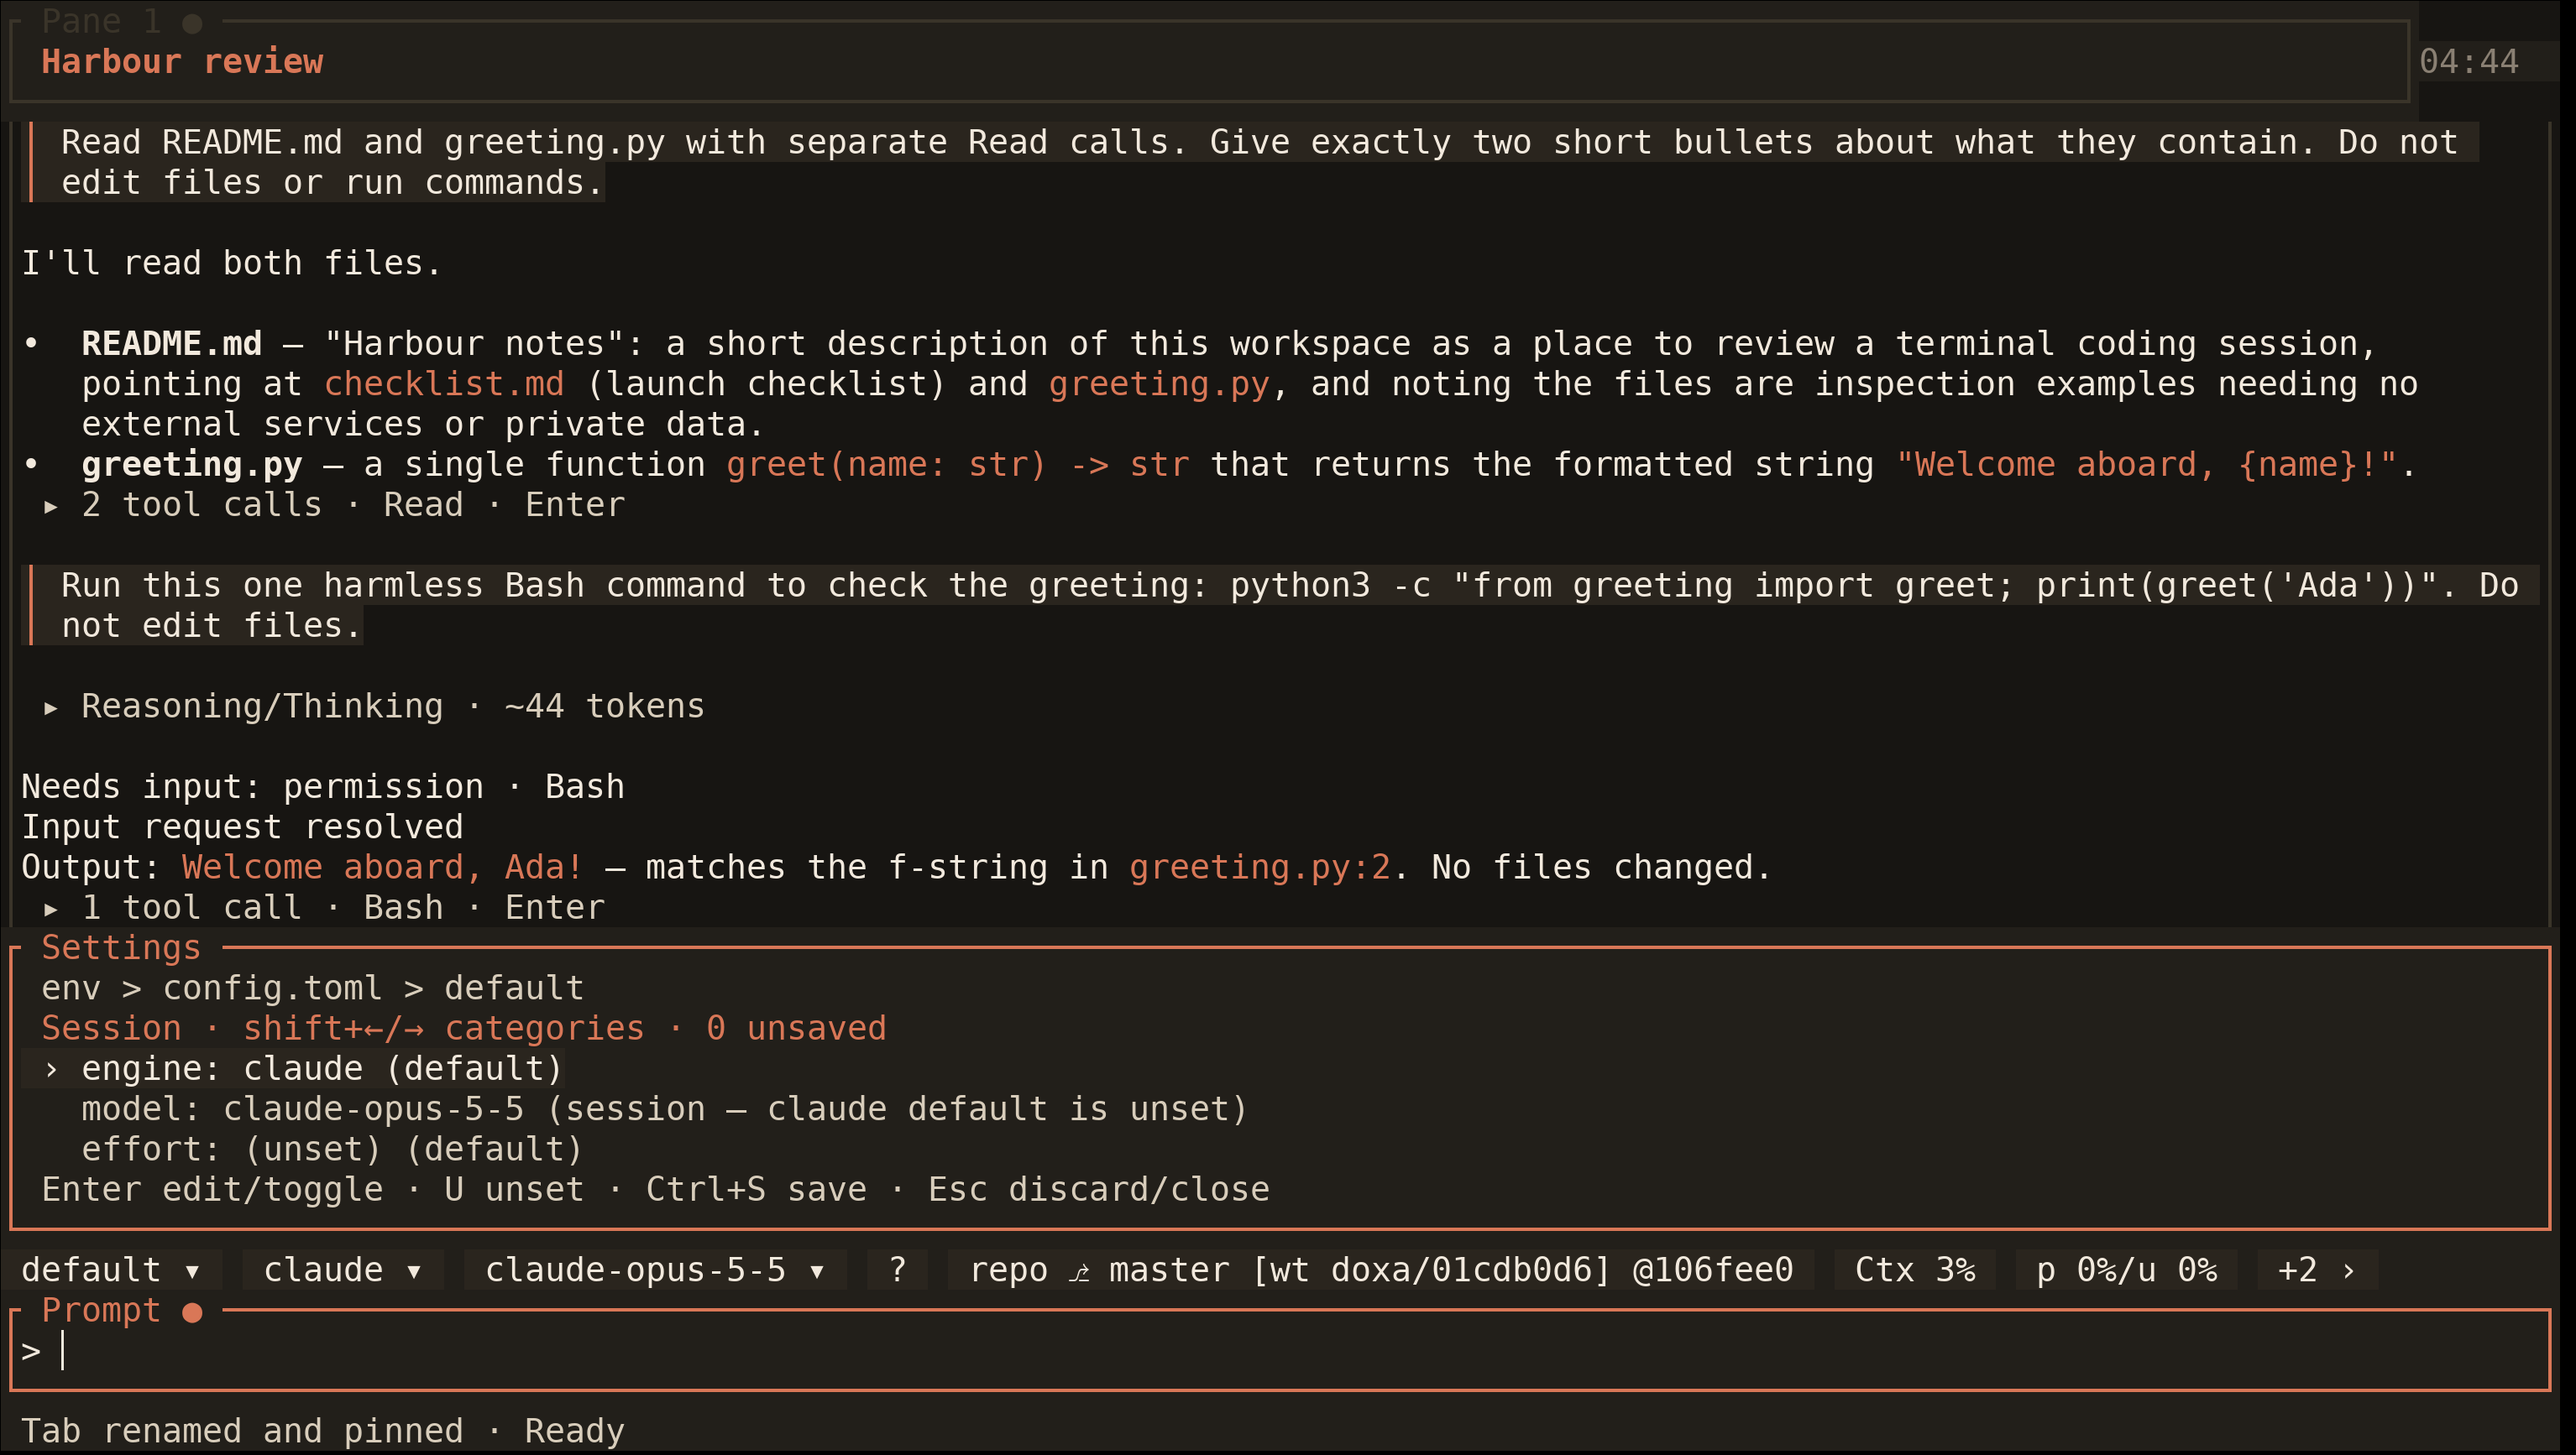
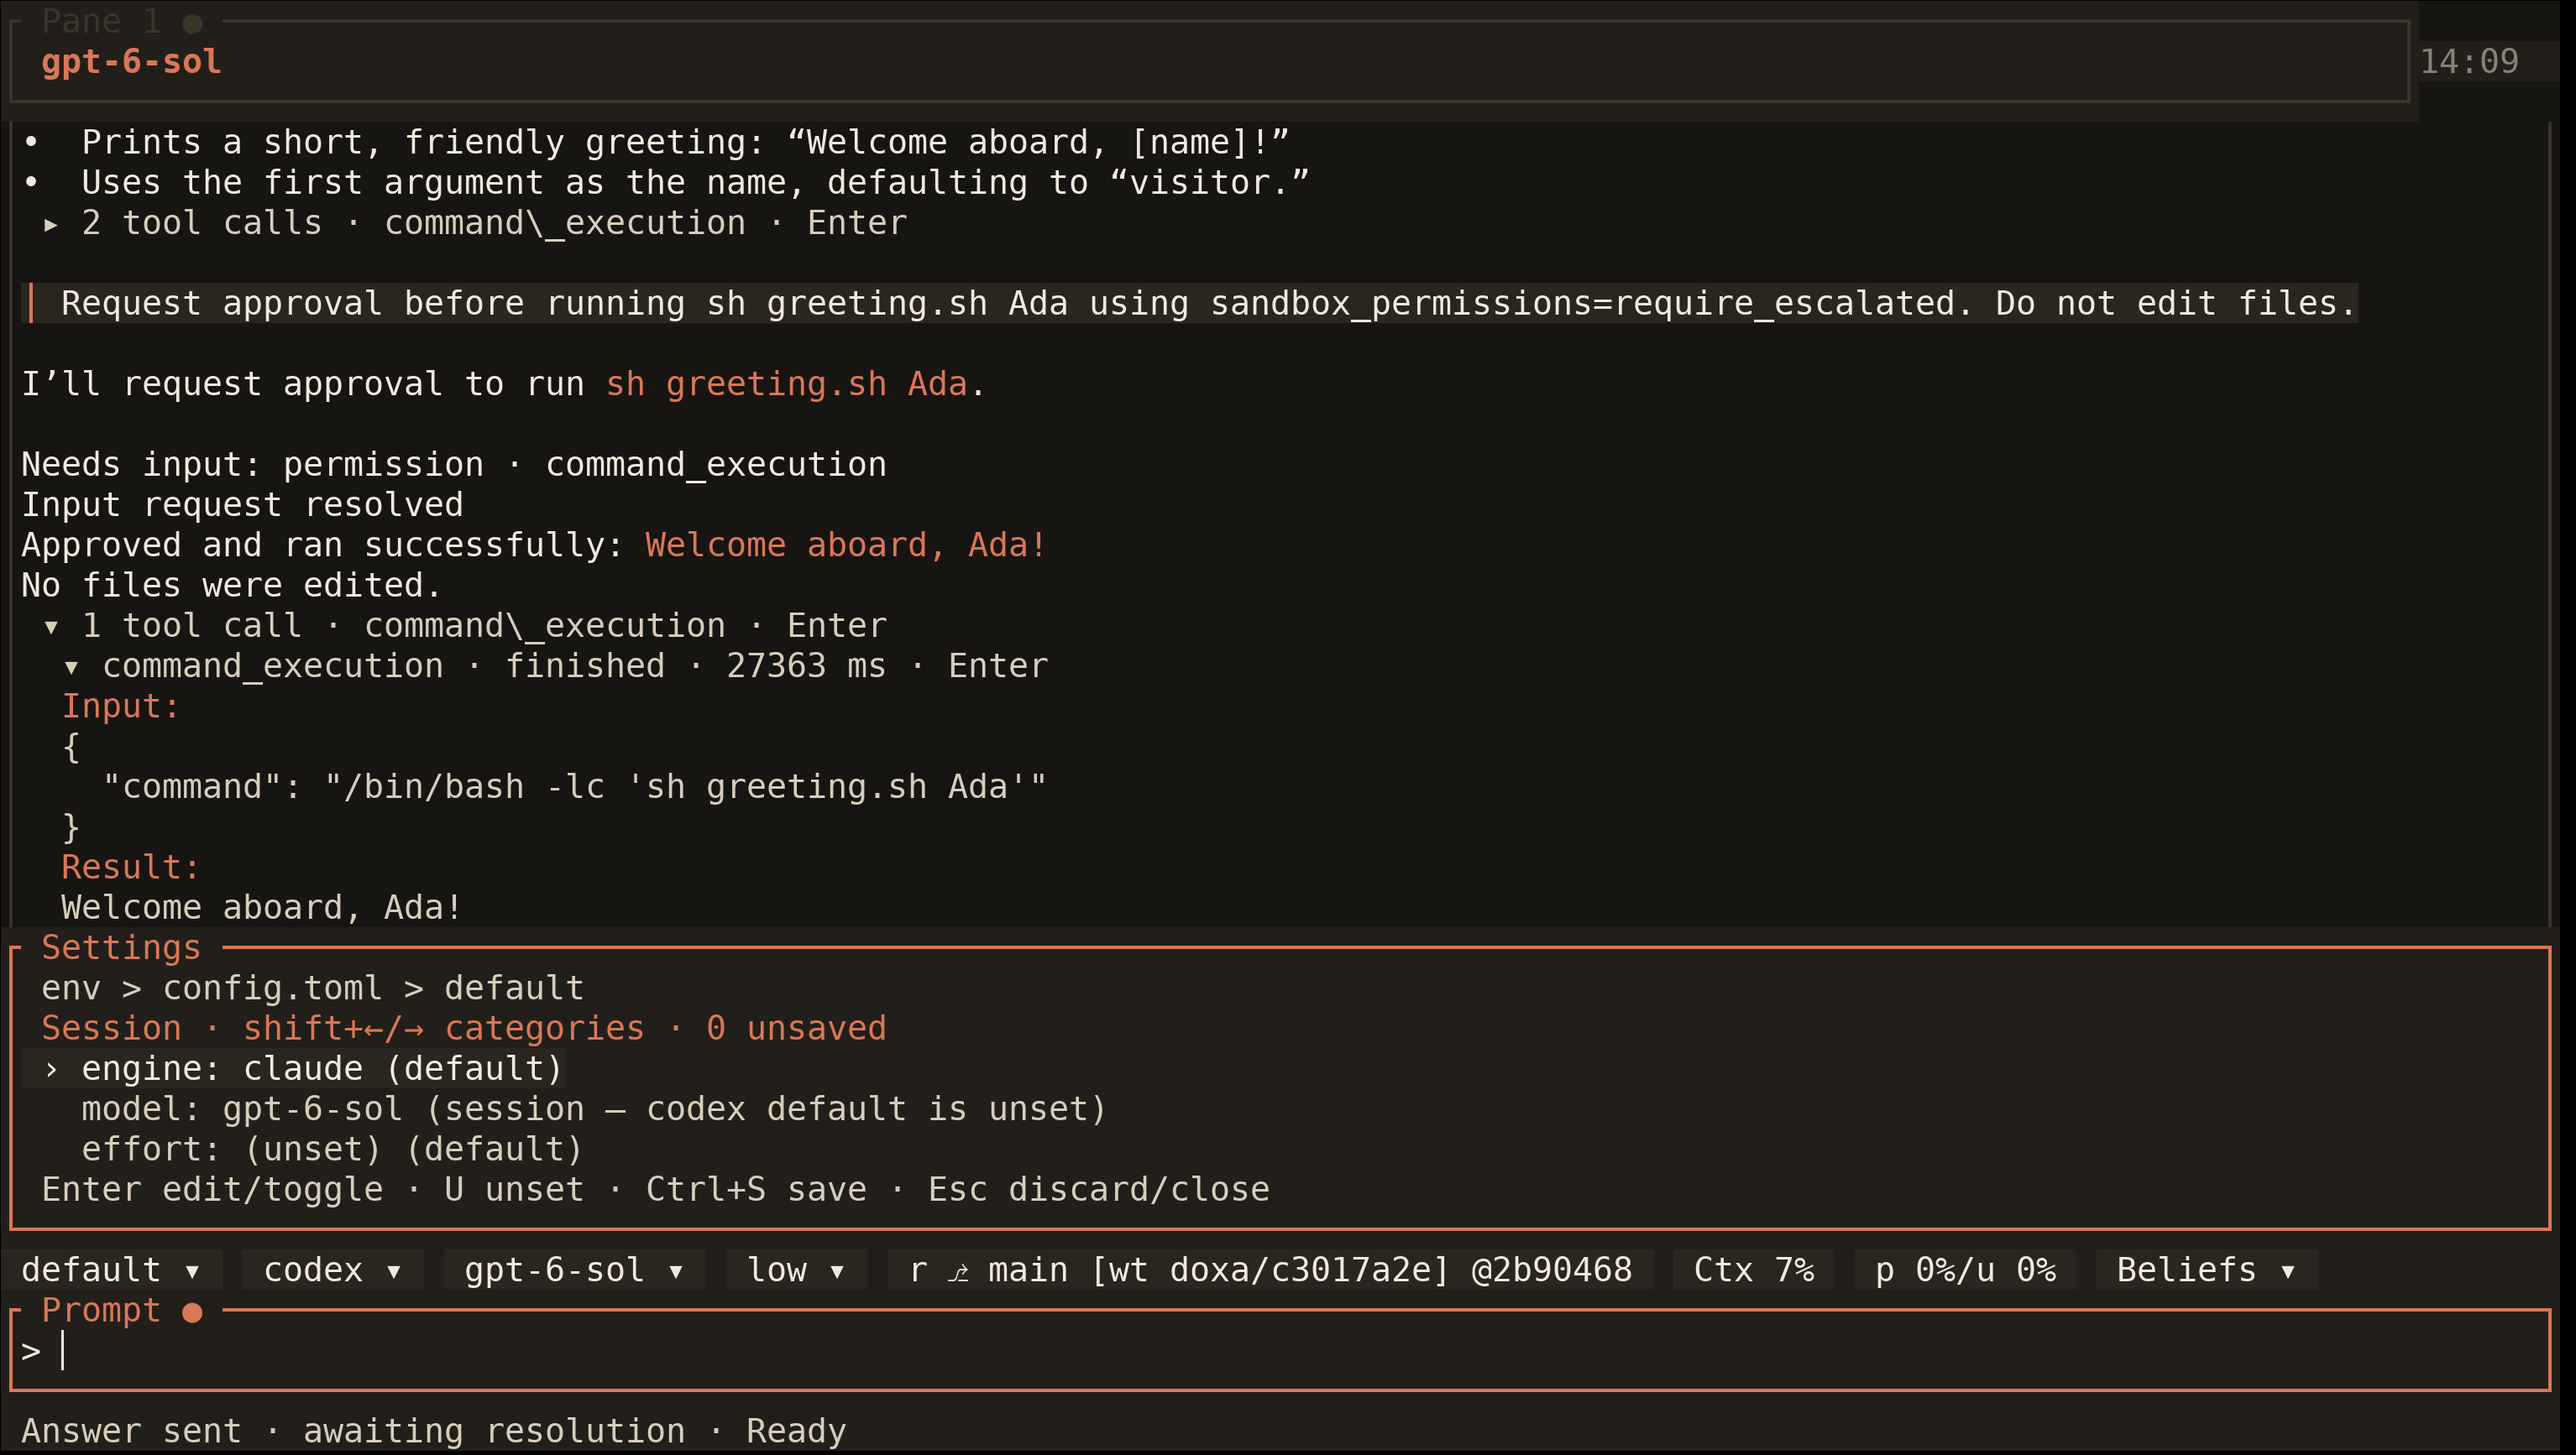
docs(gallery): record native alpha.37 from an actual Codex session

diff --git a/docs/rust-gallery.md b/docs/rust-gallery.md
@@ -3,7 +3,7 @@
 The README gallery records the running Rust app in a real GTK3/VTE terminal on
 an isolated Xvfb display. FFmpeg captures the terminal framebuffer directly.
 These images use the production frontend and native daemon with an authenticated
-Claude session; they do not use `TestBackend`, `--demo`, a fixture engine, or
+Codex session; they do not use `TestBackend`, `--demo`, a fixture engine, or
 injected daemon events. The PNGs are unedited.
 
 ## Capture provenance
@@ -11,26 +11,29 @@ injected daemon events. The PNGs are unedited.
 | Item | Recorded value |
 | --- | --- |
 | Date | 2026-09-28 |
-| Release | `2.0.0-alpha.36` |
-| Frontend and daemon source | `85b011e` |
-| Build profile | Production binaries, Cargo debug profile |
-| Provider | Authenticated Claude CLI `2.1.283`, through the Claude SDK sidecar |
-| Model | CLI default for the two provider turns; `claude-opus-5-5` explicitly selected afterward |
+| Release | `2.0.0-alpha.37` |
+| Frontend and daemon source | `1c563f644a13b5854c01a00211158b0f7b19c680` |
+| Build profile | Native installer binaries, Cargo release profile |
+| LORE | Native `0.62.0`, pinned to `d8abc3e104aacda221b5df7baace13c0a1a69b53` |
+| Provider | Authenticated Codex CLI `0.156.1`, through its app server |
+| Model and effort | `gpt-6-sol`; `low` selected and verified before the provider turns |
 | Terminal | GTK3/VTE, DejaVu Sans Mono 30, 127 columns × 36 rows |
 | Framebuffer | 3068 × 1734, captured with FFmpeg `x11grab` |
-| State | Fresh isolated `DOXA_HOME`, `DOXA_RUNTIME_DIR` and `LORE_ROOT`; `DOXA_LORE=0` |
+| State | Fresh isolated `DOXA_HOME`, `DOXA_RUNTIME_DIR`, `LORE_ROOT` and `LORE_PROJECTS_DIR`; `DOXA_LORE=0` |
 
 The small **Harbour notes** repository was written specifically as safe example
-input. It contains a README, a three-item checklist, and a two-line Python greeting
-function. Claude actually read the files and produced the replies shown. The
-separate Bash turn ran `python3 -c "from greeting import greet; print(greet('Ada'))"`
-after a real permission callback, approved with plain `a`; its actual output was
+input. It contains a README and a two-line shell greeting script. Codex actually
+read the files with separate commands and produced the replies shown. A second
+turn requested escalation for `sh greeting.sh Ada`. The real app-server permission
+callback was reviewed and approved with plain `a`; its actual output was
 `Welcome aboard, Ada!`. No files were edited by the provider.
 
-The pending-permission image was captured before explicit model selection.
-The hero, individual-tool, help, completion and settings images were captured
-after selecting the actual catalog entry. Live effort changes were unavailable
-for this session, so the effort chip remains unknown and settings show it unset.
+All six frames use the same live session, model and verified effort selection.
+The pending-permission image was captured before approval; the hero and other
+menus were captured after the greeting command completed.
+The settings submenu shows startup configuration defaults (Claude and unset
+effort) alongside the inherited session model; the live chips show Codex and
+verified low effort. Opening settings does not change the active provider.
 Displayed context and timing values are the app's reported values, not invented
 usage data. Memory is disabled and the isolated store is empty.
 
@@ -42,22 +45,22 @@ provider CLI can authenticate; DOXA and LORE state are isolated. It creates its
 own display and never captures the user's desktop.
 
 Build the frontend and native daemon from the intended release first. Supply
-absolute paths for your binaries, SDK Python environment and sidecar:
+absolute paths for the native frontend, daemon, LORE carrier and provider CLI:
 
 ```sh
 /usr/bin/python3 scripts/live_rust_gallery.py run \
   --binary /absolute/path/to/doxa-rs \
-  --daemon /absolute/path/to/doxa-daemon \
-  --python /absolute/path/to/sdk-environment/bin/python \
-  --sidecar /absolute/path/to/doxa/rust/doxa-claude/claude_sidecar.py \
+  --daemon /absolute/path/to/doxa-daemon-rs \
+  --lore /absolute/path/to/lore-rs \
   --repo /absolute/path/to/isolated-example-repo \
   --state /absolute/private/path/gallery-state \
   --control /absolute/private/path/gallery.sock \
-  --engine claude
+  --engine codex --model gpt-6-sol \
+  --provider-bin /absolute/path/to/codex
 ```
 
 Keep the control-socket and runtime paths short enough for Unix sockets.
-The native Claude launcher requires a non-writable-by-others daemon and sidecar.
+The native launcher checks daemon and carrier ownership and permissions.
 The script requires system Python with GTK3/VTE, Xvfb, FFmpeg and the font above.
 It enables the terminal's normal color palette even if the invoking shell sets
 `NO_COLOR`.
@@ -67,12 +70,15 @@ In another terminal, send normal terminal input through the owned VTE PTY:
 ```sh
 /usr/bin/python3 scripts/live_rust_gallery.py control \
   --control /absolute/private/path/gallery.sock \
-  --action '{"kind":"input","text":"Read README.md and greeting.py with separate Read calls. Give two short bullets. Do not edit files.\r"}'
+  --action '{"kind":"input","text":"Read README.md and greeting.sh using separate file read calls. Give two short bullets describing the greeting. Do not edit files.\r"}'
 ```
 
+Close the initial setup submenu with a separate Esc input. Select `/effort low`
+and wait for the app to report verification before sending a provider prompt.
 Wait for actual provider completion, then use the app's normal keyboard or mouse
 controls to expand individual calls. For a permission frame, ask the provider to
-run the harmless greeting command and capture while its genuine approval is
+run the harmless greeting command with `sandbox_permissions=require_escalated`
+and capture while its genuine approval is
 pending. Review that request and explicitly approve or deny it in the app.
 The script does not answer requests automatically.
 

diff --git a/README.md b/README.md
@@ -35,10 +35,10 @@ shares user and repo memory across DOXA, Claude Code, and Codex, with
 evidence-backed beliefs and an informational source-engine label. See the
 [engine setup and capabilities](rust/README.md) guide.
 
-![Rust 2.0 alpha.37 running a real Claude session, with file reads, command approval and a completed greeting check](assets/shots/rust-hero.png)
+![Rust 2.0 alpha.37 running a real Codex session, with file reads, command approval and a completed greeting check](assets/shots/rust-hero.png)
 
 *Captured from the running Rust app in a real VTE terminal, using an authenticated
-Claude session and a small isolated example repository. The provider replies and tool
+Codex session and a small isolated example repository. The provider replies and tool
 results are real. See the [capture method](docs/rust-gallery.md).*
 
 ## What you get
@@ -61,16 +61,16 @@ See the [Rust guide](rust/README.md) for engine capabilities, shortcuts and
 
 ### Individual tool details
 
-![Real Claude Read calls with one tool expanded and the other collapsed](assets/shots/rust-tool-entries.png)
+![Real Codex command calls with one tool expanded and the others collapsed](assets/shots/rust-tool-entries.png)
 
 *Open a tool section, then expand each call independently with a click or Enter.
-Here the README read is expanded while the greeting file read remains collapsed.*
+Here the greeting command is expanded while the earlier file reads remain collapsed.*
 
 ### Inline approval
 
-![A live Claude Bash permission request with Approve and Deny above the prompt](assets/shots/rust-permission-request.png)
+![A live Codex command permission request with Approve and Deny above the prompt](assets/shots/rust-permission-request.png)
 
-*The real Bash request waits above the prompt. Select Approve or Deny with the mouse
+*The real command request waits above the prompt. Select Approve or Deny with the mouse
 or keyboard; Enter submits the selection, A approves, and D or Esc denies.
 The pending indicator blinks while the request is unresolved.*
 
@@ -88,10 +88,10 @@ The pending indicator blinks while the request is unresolved.*
 
 ### Session settings
 
-![Live session settings showing the actual selected Claude model and unset effort](assets/shots/rust-settings.png)
+![Settings showing configuration defaults and the session model, with verified live Codex chips below](assets/shots/rust-settings.png)
 
-*Settings show the current session and where each value comes from. Unknown or
-unavailable values remain unset.*
+*Settings identify configuration defaults and values inherited from the session.
+The chips below show the active engine, model and verified low effort.*
 
 All six frames are unedited 3068 × 1734 terminal captures from the same running
 alpha.37 build. [Capture provenance and reproduction](docs/rust-gallery.md).

diff --git a/CHANGELOG.md b/CHANGELOG.md
@@ -9,8 +9,8 @@ the stable 2.0 release has not been cut.
 
 **Native runtime**
 
-- Replace the Claude SDK sidecar with the native CLI control protocol.
-  Verify live model/effort changes and use reported context and quota events.
+- Replace the Claude SDK sidecar with native CLI controls and verified live
+  model/effort changes. Show reported usage and actionable authentication errors.
 - Serve mesh assets and attested Unix peer traffic with Hyper; use Reqwest
   for remote clients. Install frontend, daemon and LORE without Python or uv.
 - Share opt-in **`spawn_session`** across providers with exact human approval,
@@ -19,7 +19,7 @@ the stable 2.0 release has not been cut.
 **Recovery and compaction**
 
 - Migrate verified legacy Claude logs; withhold resumed output until the CLI
-  confirms the same session. Preserve unsupported or uncertain history.
+  confirms the same session. Canonically scrub streamed and restored text.
 - Run Codex hooks and review supervisors natively with pinned carrier/source
   proofs. Keep compaction usage in budget accounting and refuse unknown totals.
 - Add reviewed vendor summary checkpoints beneath the original durable
